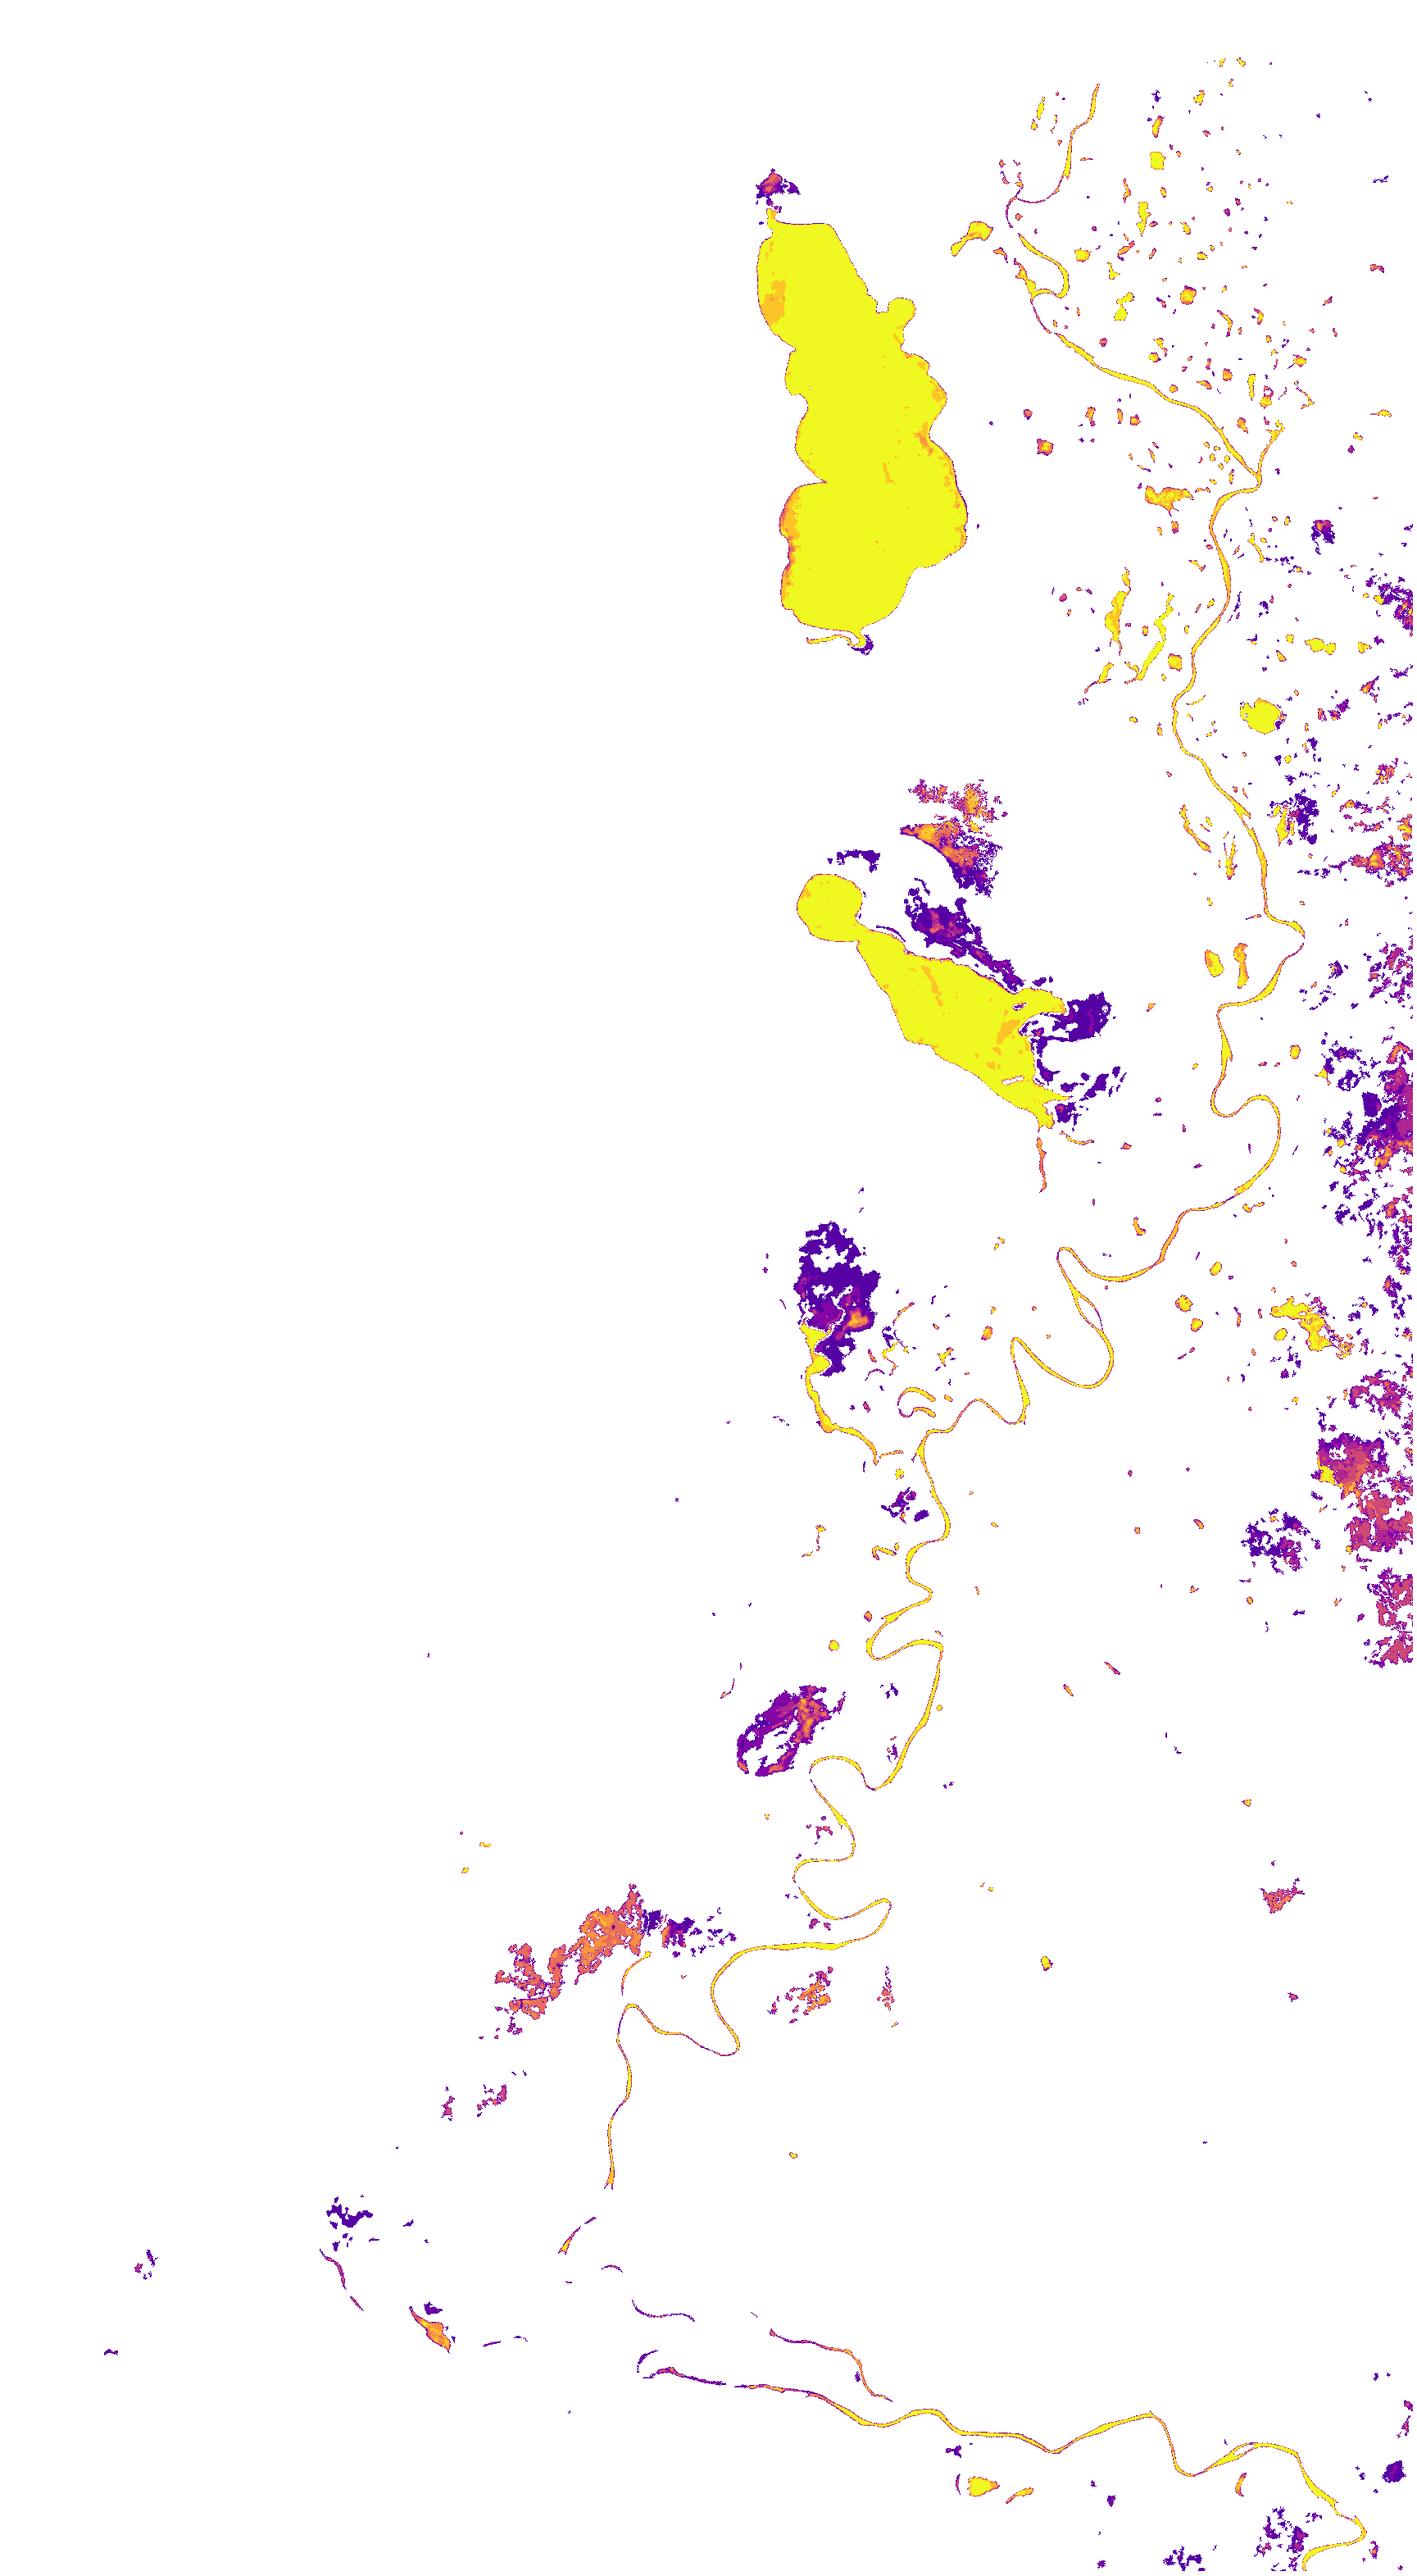
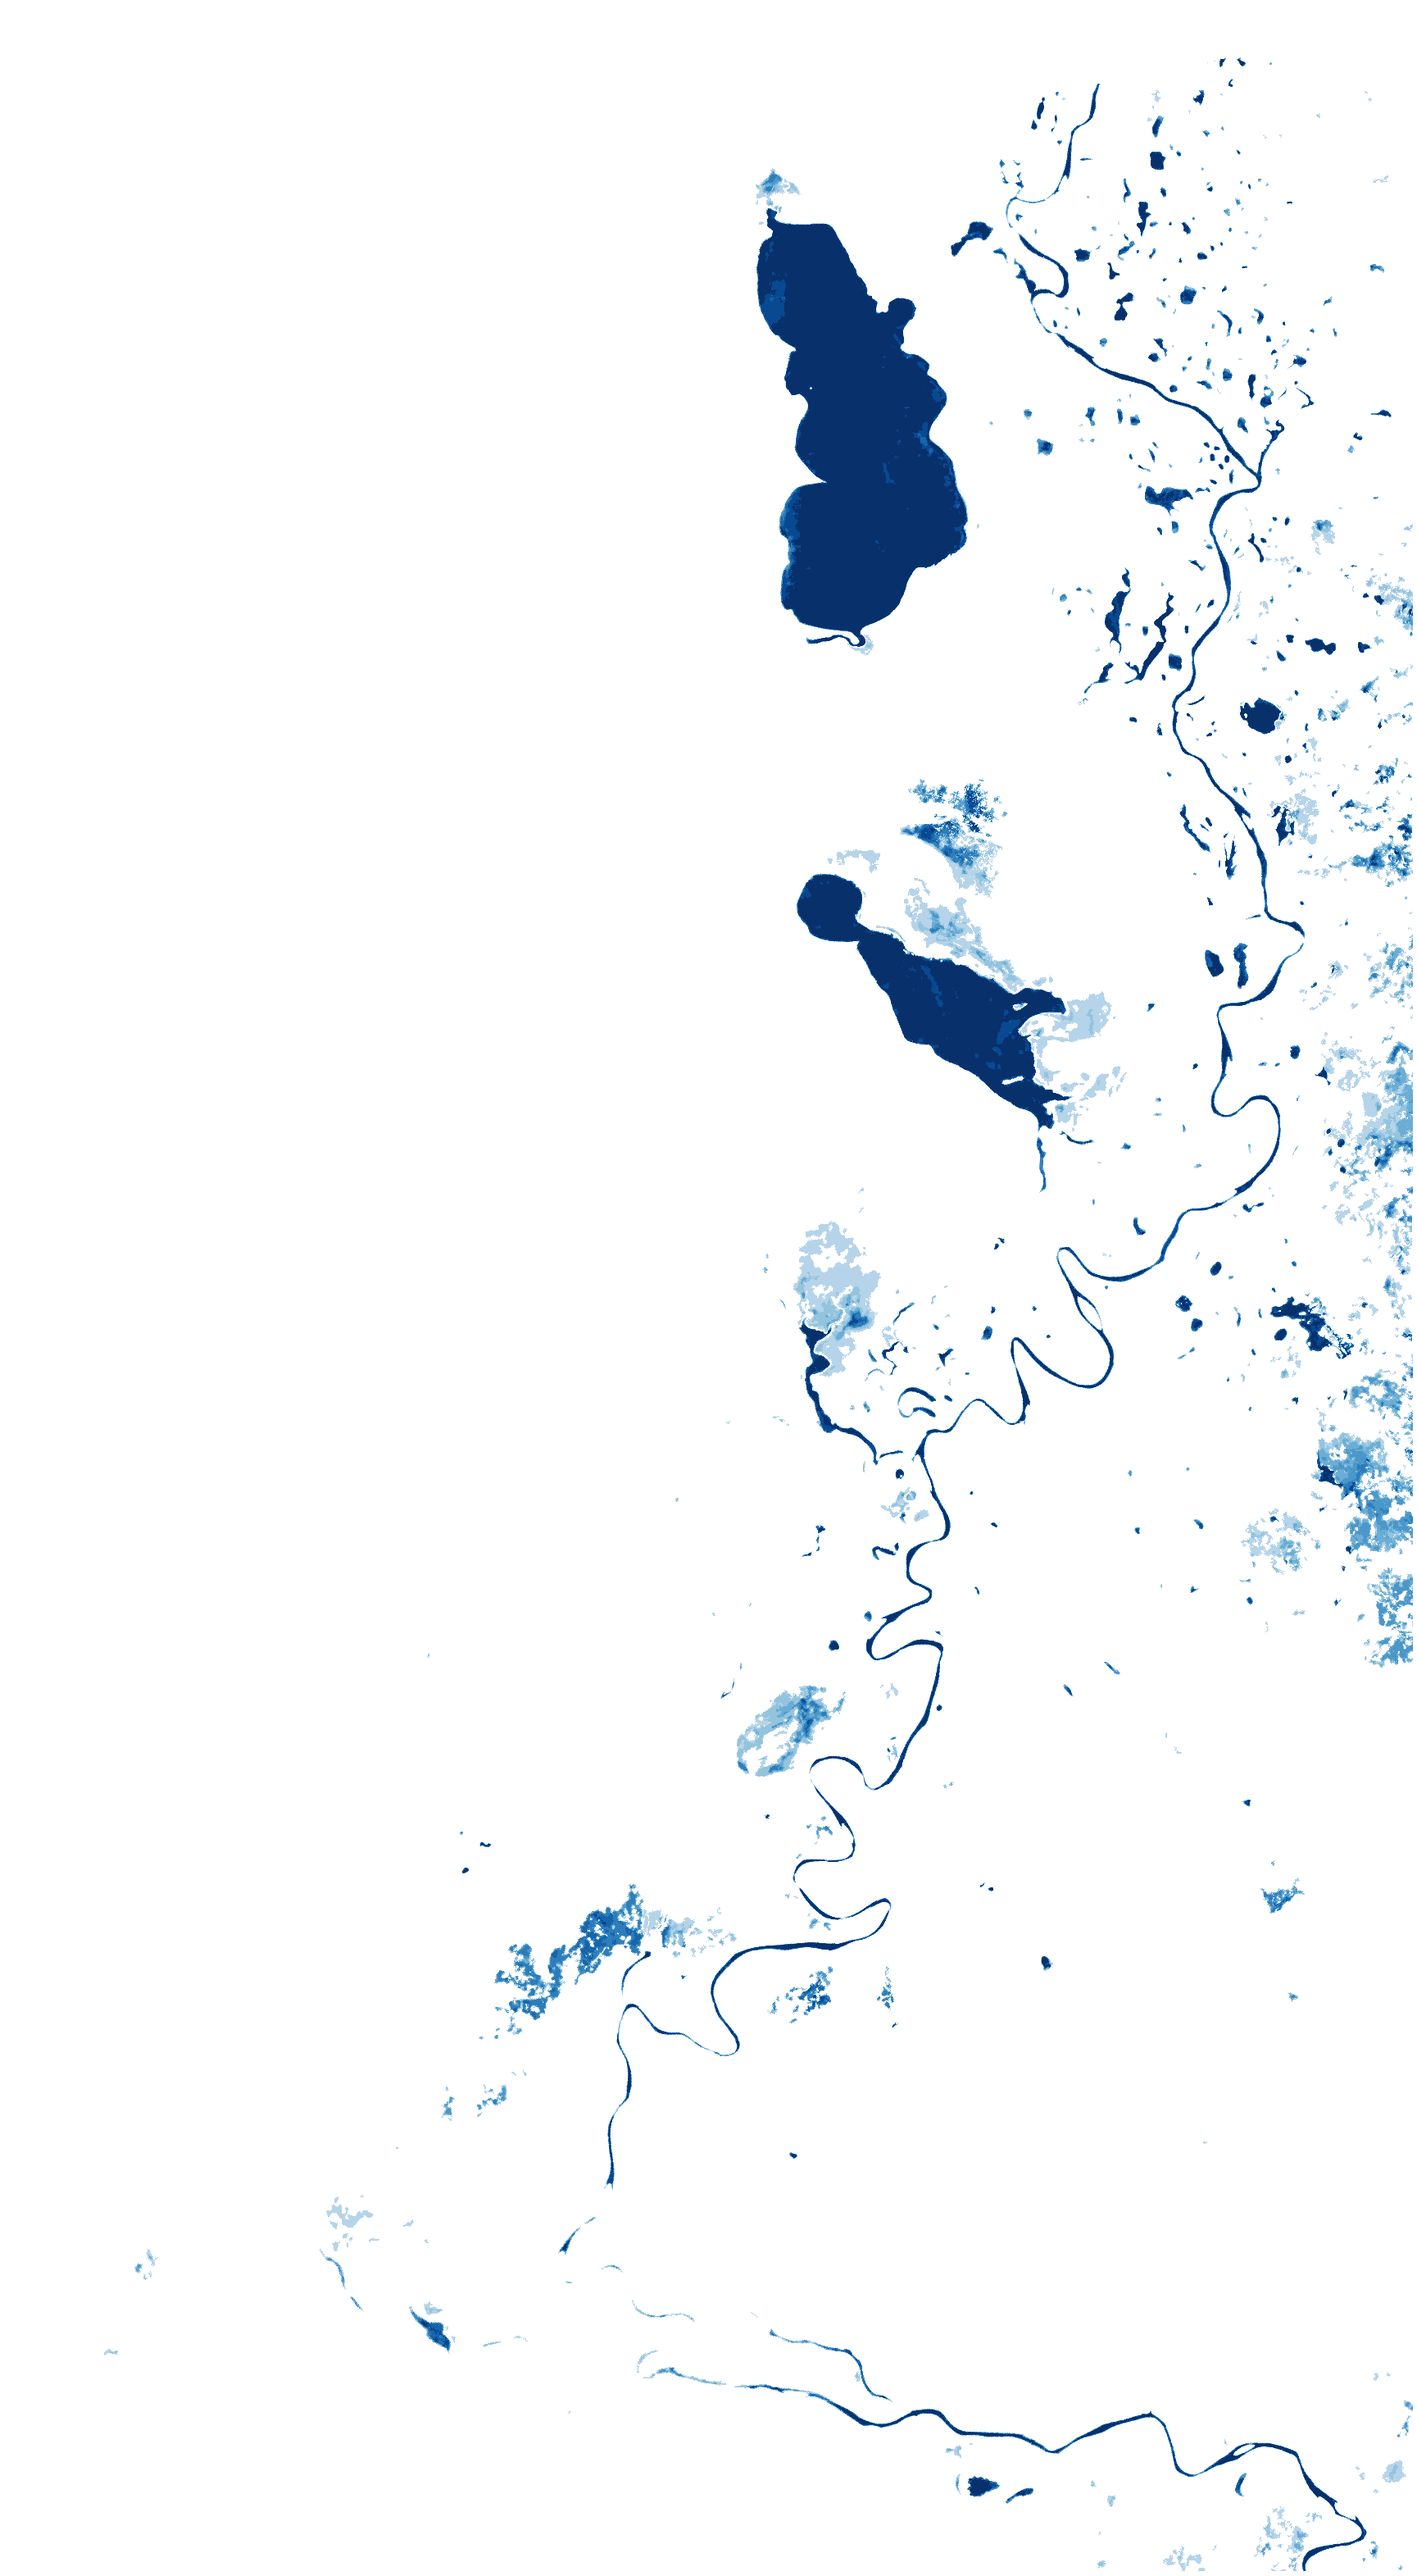
Web: change/hydroperiod section, scroll-on-click, AOI fit, gauge marker, HV grey Sep panel

diff --git a/web/index.html b/web/index.html
@@ -31,7 +31,10 @@
   .legend { display:flex; flex-wrap:wrap; gap:6px 16px; font-size:13px; color:var(--muted); margin-top:8px; min-height:22px; }
   .sw { display:inline-block; width:14px; height:14px; border-radius:3px; vertical-align:-2px; margin-right:5px; border:1px solid rgba(0,0,0,.15); }
   .grad { display:inline-block; width:160px; height:12px; border-radius:3px; vertical-align:-1px;
-          background:linear-gradient(90deg,#6a00a8,#b12a90,#e16462,#fca636,#f0f921); margin:0 6px; }
+          background:linear-gradient(90deg,#9ecae1,#6baed6,#3182bd,#08519c,#08306b); margin:0 6px; }
+  .hint { position:absolute; top:10px; left:50%; transform:translateX(-50%); z-index:1001; background:rgba(27,36,48,.75);
+          color:#fff; font-size:12px; padding:3px 8px; border-radius:6px; pointer-events:none; transition:opacity .2s; }
+  .maphost { position:relative; }
   .swipe-wrap { position:relative; }
   .swipe { position:absolute; left:0; right:0; top:50%; width:100%; margin:0; z-index:1000;
            -webkit-appearance:none; appearance:none; background:transparent; pointer-events:none; height:34px; margin-top:-17px; }
@@ -72,12 +75,11 @@
   <div class="controls" id="mapCtl">
     <label><input type="radio" name="lyr" value="change" checked> Change 17 Jul → 21 Oct</label>
     <label><input type="radio" name="lyr" value="hydroperiod"> Hydroperiod (dates as open water)</label>
-    <label><input type="radio" name="lyr" value="composite_20260717"> Radar 17 Jul</label>
-    <label><input type="radio" name="lyr" value="composite_20261021"> Radar 21 Oct</label>
     <label>Opacity <input type="range" id="op" min="0" max="1" step="0.05" value="0.9"></label>
   </div>
-  <div id="map1" class="map"></div>
+  <div class="maphost"><div id="map1" class="map"></div><div class="hint">click to zoom with scroll</div></div>
   <div class="legend" id="leg1"></div>
+  <p class="note" id="chgNote">Most ‘open water lost’ is shallow water where vegetation emerged; optics still saw it wet (see chart).</p>
 </section>
 
 <section>
@@ -88,7 +90,7 @@
     <label><input type="radio" name="sw" value="ba"> Radar: 17 Jul vs 21 Oct</label>
   </div>
   <div class="swipe-wrap">
-    <div id="map2" class="map"></div>
+    <div id="map2" class="map"></div><div class="hint">click to zoom with scroll</div>
     <div class="divider" id="div2"></div>
     <div class="tag l" id="tagL"></div><div class="tag r" id="tagR"></div>
     <input class="swipe" id="swipe" type="range" min="0" max="1" step="0.001" value="0.5">
@@ -135,14 +137,25 @@ const LEG = {
   change: [["#00c8ff","open water both dates"],["#ff7f00","open water lost"],["#ff00c8","open water gained"],
            ["rgba(255,255,255,.5)","analysed, no open water"]],
   composite: [["#ff0000","HH"],["#00ff00","HV"],["#0000ff","HH − HV"]],
-  dswx: [["#e2d6b4","not water"],["#1f4e9c","open water"],["#78b4e6","partial surface water"],["#fafafa","cloud / shadow"]],
+  dswx: [["#e2d6b4","not water"],["#1f4e9c","open water"],["#78b4e6","partial surface water"],["#969696","cloud — optical blind"]],
+  hvgrey: [["#000","water (smooth, dark)"],["#fff","land / vegetation (bright)"]],
 };
 function legend(el, key){
   if (key === "hydroperiod") { el.innerHTML = 'dates as open water (of 8): 1<span class="grad"></span>8'; return; }
-  const items = LEG[key.startsWith("composite") ? "composite" : key] || [];
+  const items = LEG[key.startsWith("composite") ? "composite" : key.startsWith("hvgrey") ? "hvgrey" : key] || [];
   el.innerHTML = items.map(([c,t]) => `<span><span class="sw" style="background:${c}"></span>${t}</span>`).join("")
     + (key.startsWith("composite") ? '<span>(radar false colour: dark = smooth water)</span>' : "")
     + (key === "change" ? '<span>flooded vegetation: not detected</span>' : "");
+}
+function scrollOnClick(map){
+  const hint = map.getContainer().parentElement.querySelector(".hint");
+  map.on("click focus", () => { map.scrollWheelZoom.enable(); if (hint) hint.style.opacity = 0; });
+  map.on("mouseout", () => { map.scrollWheelZoom.disable(); if (hint) hint.style.opacity = 1; });
+}
+function gaugeMarker(map, G){
+  if (!G) return;
+  L.circleMarker([G.lat, G.lon], {radius:7, color:"#fff", weight:2, fillColor:"#d62728", fillOpacity:1})
+   .addTo(map).bindPopup(`<b>${G.name}</b> (ANA ${G.code})<br>River gauge — grey line in the chart`);
 }
 function basemap(map){
   const esri = L.tileLayer("https://server.arcgisonline.com/ArcGIS/rest/services/World_Imagery/MapServer/tile/{z}/{y}/{x}",
@@ -175,15 +188,16 @@ Promise.all([fetch("data/data.json").then(r=>r.json()), fetch("data/layers.json"
   $("#cards").innerHTML = cards.map(([k,t,p]) => `<div class="card"><div class="k">${k}</div><div class="t">${t}</div><p>${p}</p></div>`).join("");
 
   // ---------- map 1
-  const b = LY.change.bounds;
+  const b = D.aoi_bounds || LY.change.bounds;
   const m1 = L.map("map1", {scrollWheelZoom:false}).fitBounds(b);
-  basemap(m1);
+  basemap(m1); scrollOnClick(m1); gaugeMarker(m1, D.gauge);
   let ov = null;
   function show(name){
     if (ov) m1.removeLayer(ov);
     ov = L.imageOverlay(LY[name].url, LY[name].bounds, {opacity:+$("#op").value}).addTo(m1);
     watch(ov, $("#leg1"));
     legend($("#leg1"), name);
+    $("#chgNote").style.display = name === "change" ? "" : "none";
   }
   document.querySelectorAll('input[name=lyr]').forEach(r => r.addEventListener("change", e => show(e.target.value)));
   $("#op").addEventListener("input", e => ov && ov.setOpacity(+e.target.value));
@@ -191,7 +205,7 @@ Promise.all([fetch("data/data.json").then(r=>r.json()), fetch("data/layers.json"
 
   // ---------- map 2 (swipe)
   const m2 = L.map("map2", {scrollWheelZoom:false, zoomAnimation:false}).fitBounds(b);
-  basemap(m2);
+  basemap(m2); scrollOnClick(m2); gaugeMarker(m2, D.gauge);
   const pl = m2.createPane("left"), pr = m2.createPane("right");
   pl.style.zIndex = 450; pr.style.zIndex = 450;
   let oL = null, oR = null;
@@ -209,11 +223,12 @@ Promise.all([fetch("data/data.json").then(r=>r.json()), fetch("data/layers.json"
     [oL,oR].forEach(o => o && m2.removeLayer(o));
     let l, r, tl, tr;
     if (kind === "sep") {
-      l = "composite_" + D.sep_nisar.replaceAll("-",""); r = "dswx_" + D.sep_dswx.replaceAll("-","");
-      tl = `NISAR radar · ${dmy(D.sep_nisar)}`; tr = `Optical DSWx-HLS · ${dmy(D.sep_dswx)}`;
-      $("#leg2").innerHTML = "";
-      legend($("#leg2"), "dswx");
-      $("#leg2").insertAdjacentHTML("afterbegin", "<span><b>Right:</b></span>");
+      l = "hvgrey_" + D.sep_nisar.replaceAll("-",""); r = "dswx_" + D.sep_dswx.replaceAll("-","");
+      tl = `NISAR radar HV · ${dmy(D.sep_nisar)}`; tr = `Optical DSWx-HLS · ${dmy(D.sep_dswx)}`;
+      const tmp = document.createElement("div"); legend(tmp, "hvgrey");
+      $("#leg2").innerHTML = "<span><b>Left:</b></span>" + tmp.innerHTML;
+      legend(tmp, "dswx");
+      $("#leg2").insertAdjacentHTML("beforeend", "<span style='margin-left:12px'><b>Right:</b></span>" + tmp.innerHTML);
       $("#cloudLead").textContent = `In the fire season, clouds left ${M.sep_clear_pct}% of the floodplain visible to optical sensors on ${dmy(D.sep_dswx)}. NISAR, one day later, imaged all of it. Drag the handle.`;
     } else {
       l = "composite_" + D.before.replaceAll("-",""); r = "composite_" + D.after.replaceAll("-","");

diff --git a/scripts/03_export_web.py b/scripts/03_export_web.py
@@ -93,6 +93,13 @@ def main():
         rgba[~ok] = 0
         save(f"composite_{d}", rgba, tr, crs, layers, Resampling.bilinear, webp=True)
 
+    # --- NISAR HV greyscale for the fire-season panel (water black): HV -28..-8 dB -> 0..255
+    hh3, hv3, tr, crs = load(SEP_N)
+    ok3 = np.isfinite(hv3)
+    g = np.nan_to_num(np.clip((hv3 + 28.0) / 20.0 * 255, 0, 255))
+    save(f"hvgrey_{SEP_N}", np.dstack([g, g, g, np.where(ok3, 255, 0)]).astype("uint8"), tr, crs, layers,
+         Resampling.bilinear, webp=True)
+
     # --- DSWx-HLS 2 Sep (cloudy) on the NISAR 3 Sep footprint
     import importlib.util
     spec = importlib.util.spec_from_file_location("dswx", ROOT / "scripts/02e_dswx_compare.py")
@@ -103,8 +110,8 @@ def main():
     hh3, _, _, _ = load(SEP_N)
     w[~np.isfinite(hh3)] = 255
     save(f"dswx_{SEP_D}", palette_rgba(w, {0: (226, 214, 180, 255), 1: (31, 78, 156, 255),
-                                         2: (120, 180, 230, 255), 253: (205, 205, 205, 215),
-                                         252: (205, 205, 205, 215)}), tr, crs, layers)
+                                         2: (120, 180, 230, 255), 253: (150, 150, 150, 255),
+                                         252: (150, 150, 150, 255)}), tr, crs, layers)
 
     # --- classes
     for d in (BEFORE, AFTER):
@@ -123,10 +130,10 @@ def main():
     with rasterio.open(ROOT / "outputs/maps/hydroperiod.tif") as r:
         h, tr, crs = r.read(1), r.transform, r.crs
     import matplotlib
-    cmap = matplotlib.colormaps["plasma"]
+    cmap = matplotlib.colormaps["Blues"]
     n = int(h[h != 255].max())
-    cols = {k: tuple(int(255 * v) for v in cmap(0.15 + 0.85 * (k - 1) / max(n - 1, 1))[:3]) + (255,)
-            for k in range(1, n + 1)}
+    cols = {k: tuple(int(255 * v) for v in cmap(0.30 + 0.70 * (k - 1) / max(n - 1, 1))[:3]) + (255,)
+            for k in range(1, n + 1)}           # 1 = light blue ... n = dark blue
     cols[0] = (255, 255, 255, 60)
     save("hydroperiod", palette_rgba(h, cols), tr, crs, layers)
 
@@ -147,6 +154,15 @@ def main():
     def ymd(s):
         return f"{s[:4]}-{s[4:6]}-{s[6:]}" if "-" not in s else s
 
+    from shapely.geometry import shape
+    gj = json.loads((ROOT / "config/aoi.geojson").read_text())
+    geom = gj["features"][0]["geometry"] if gj.get("type") == "FeatureCollection" else gj.get("geometry", gj)
+    w_, s_, e_, n_ = shape(geom).bounds
+    aoi_bounds = [[s_, w_], [n_, e_]]
+    gauge = json.loads((ROOT / "config/gauge.json").read_text()) if (ROOT / "config/gauge.json").exists() else None
+    if not gauge or gauge.get("lat") is None or gauge.get("lon") is None:
+        print("      [WARN] config/gauge.json has no lat/lon -> no gauge marker on the map")
+        gauge = None
     r_par, p_par = stats.pearsonr(comp["stage_at_dswx_cm"], comp["series_dswx_open_partial_km2"])
     r_op, p_op = stats.pearsonr(comp["stage_at_dswx_cm"], comp["series_dswx_open_km2"])
     cloudy = agr.sort_values("clear_pct").iloc[0]
@@ -177,6 +193,7 @@ def main():
             "sep_clear_pct": round(float(agr.loc[agr["dswx_date"] == SEP_D, "clear_pct"].iloc[0])),
         },
         "before": ymd(BEFORE), "after": ymd(AFTER), "sep_nisar": ymd(SEP_N), "sep_dswx": ymd(SEP_D),
+        "aoi_bounds": aoi_bounds, "gauge": gauge,
     }
     for name, key in (("jul_aug_loss.csv", "jul_aug_loss"), ("partial_clf_summary.csv", "classifier"),
                       ("wind_check.csv", "wind")):
